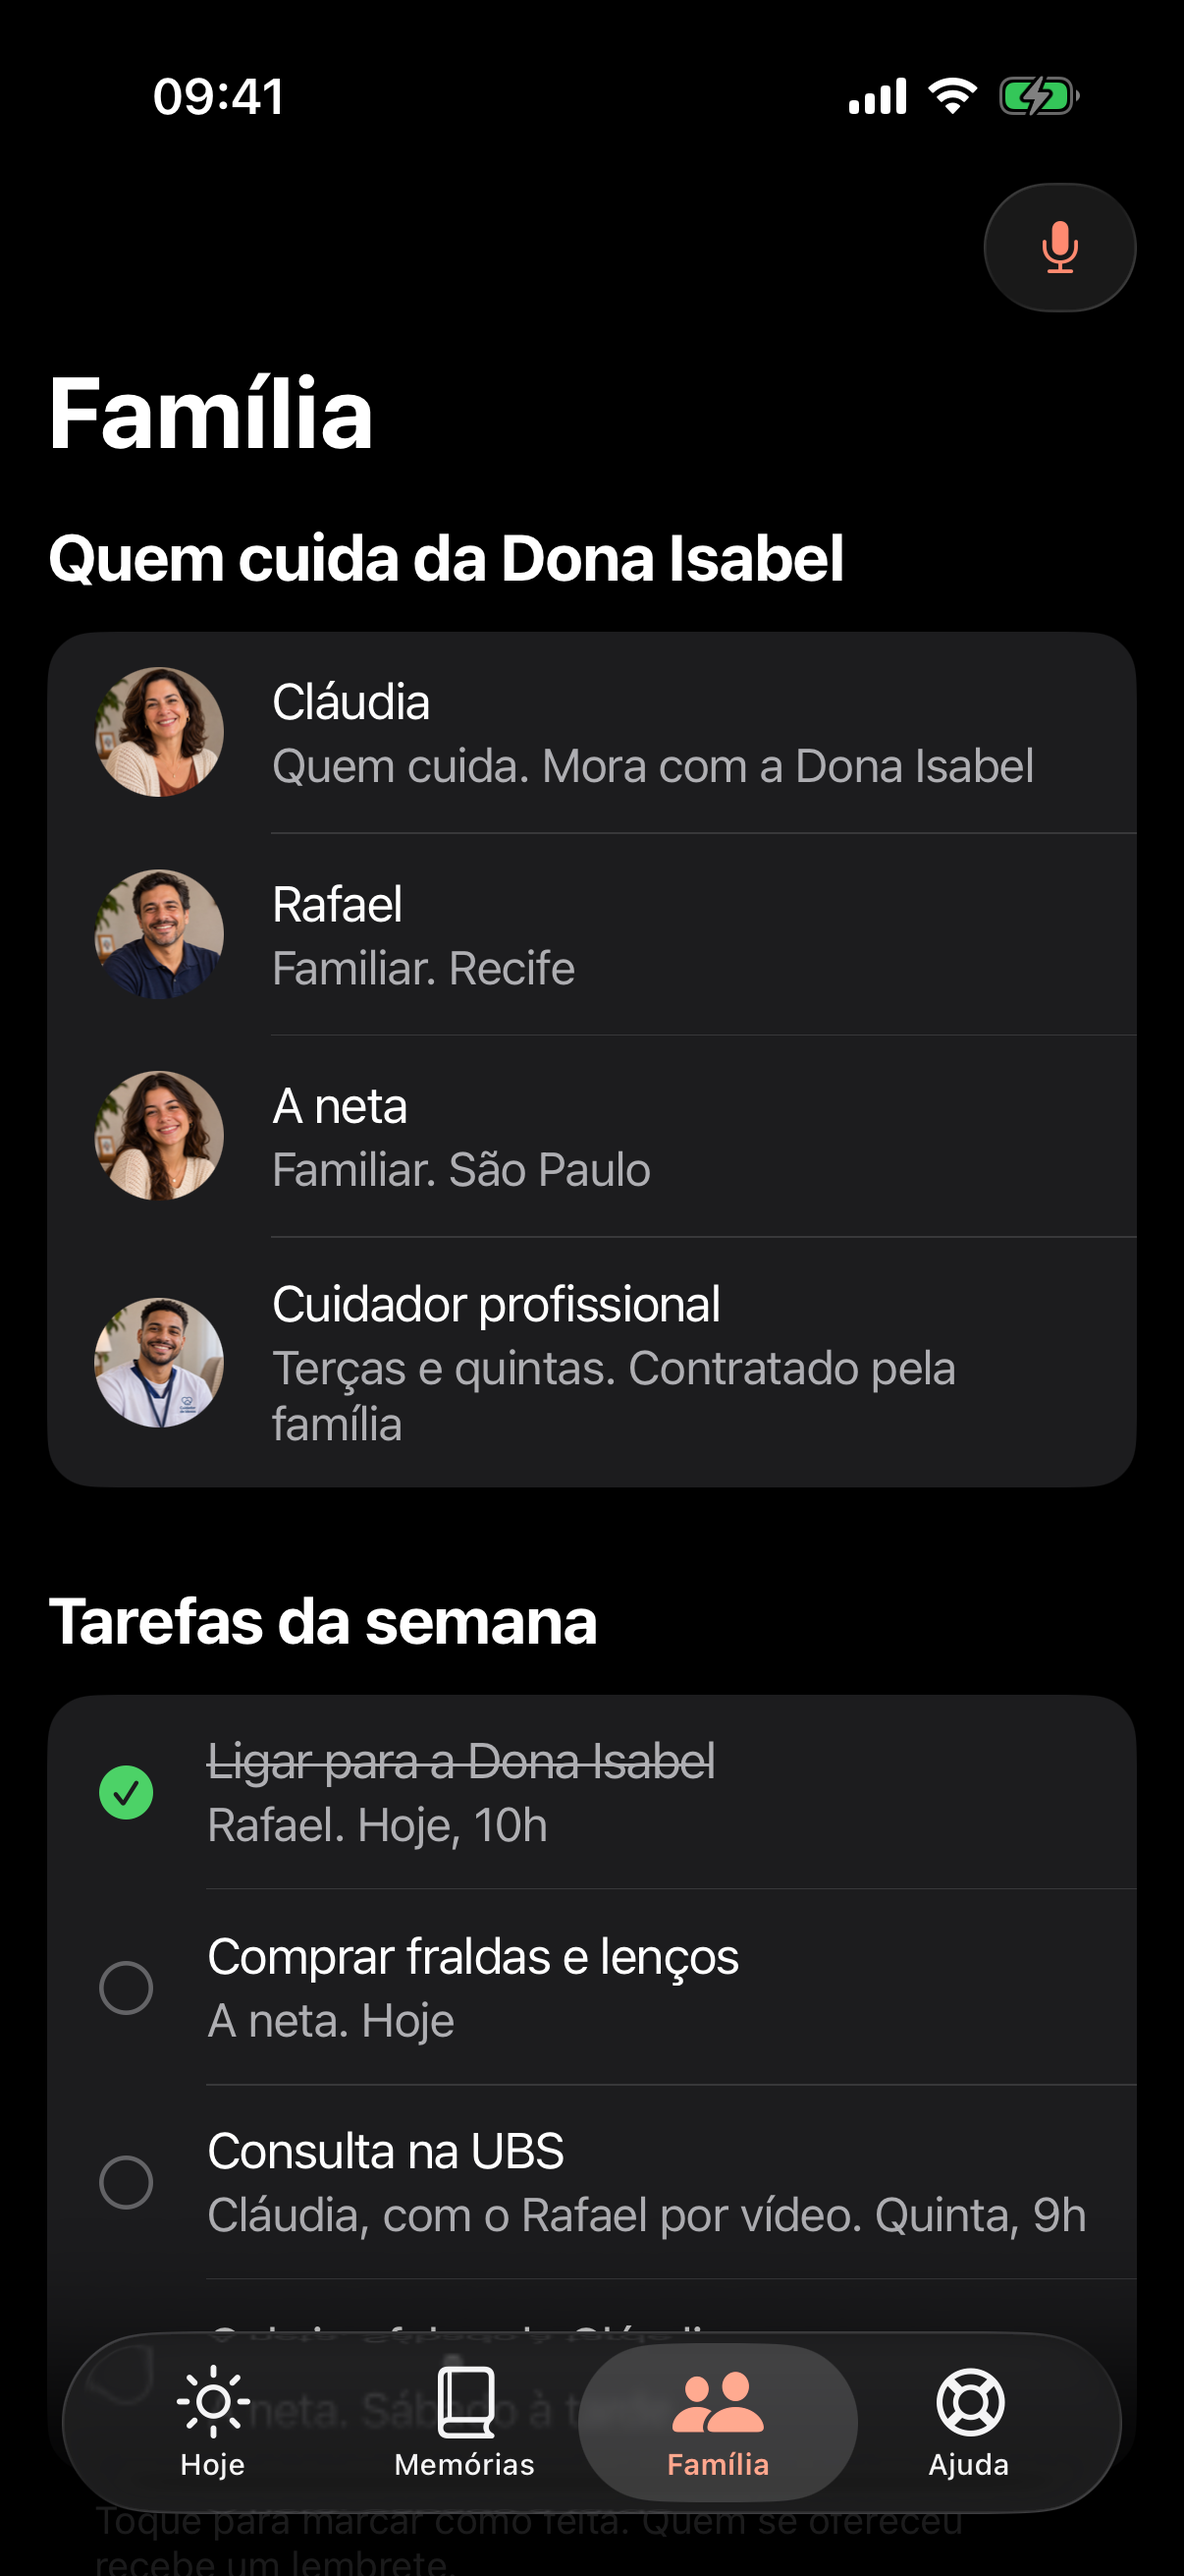
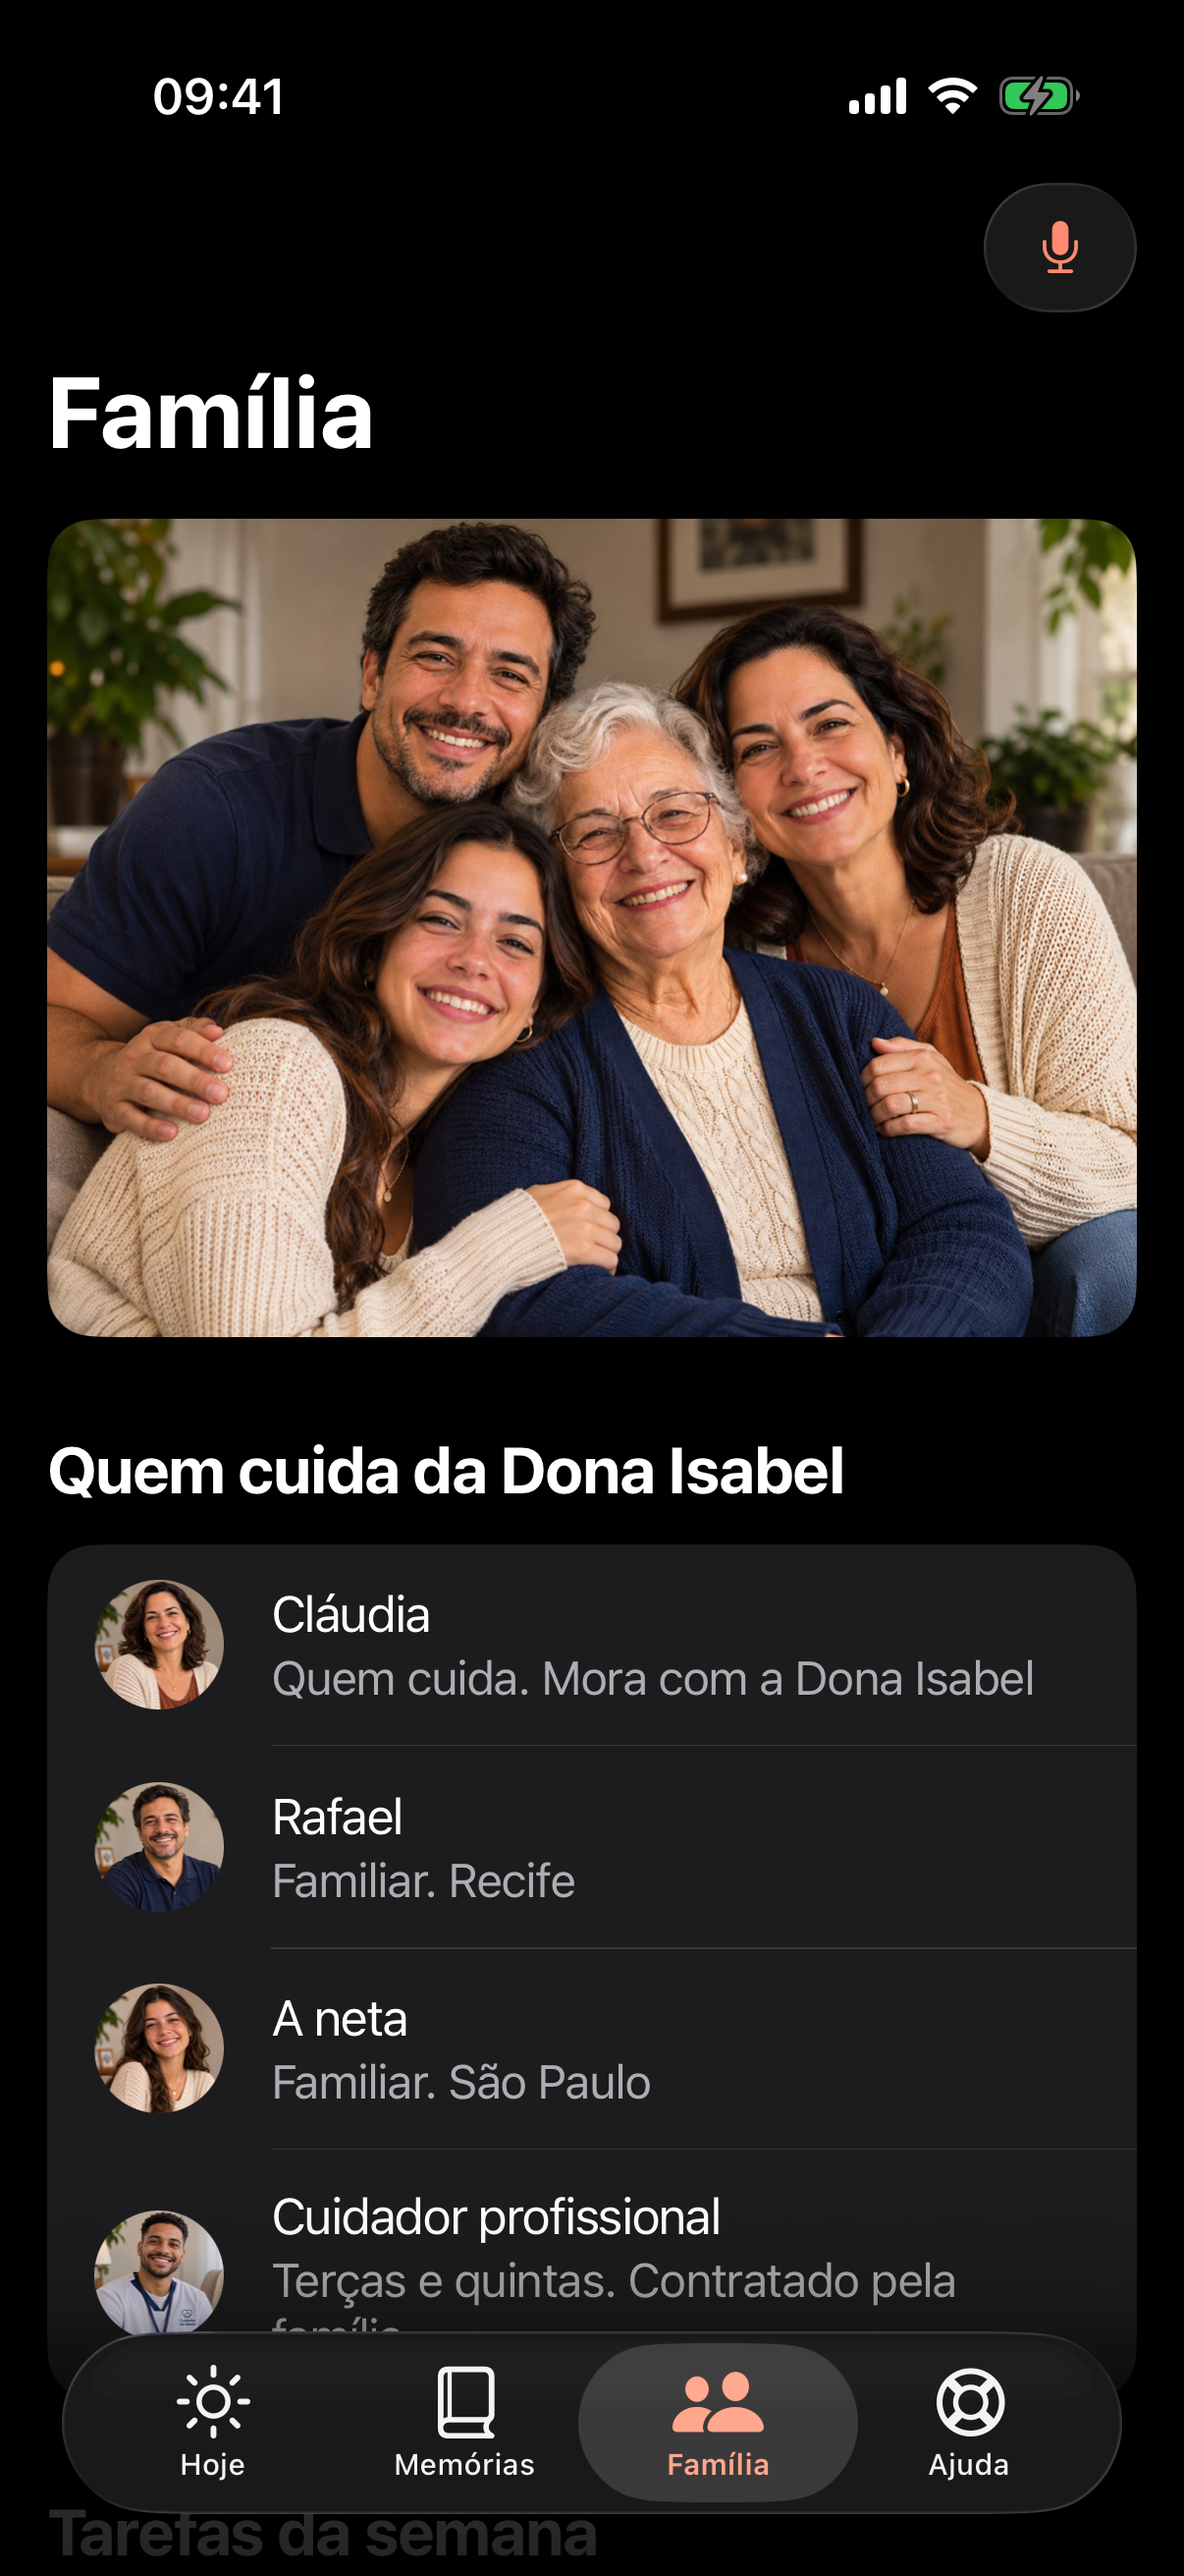
feat(app): fotos de memória da Dona Isabel e da família
- Grade do Passaporte com o ateliê (1978), São João (1965), a
  Cláudia pequena, a casa da Rua das Flores, os 81 anos com a neta e
  a família reunida
- Sessão de reminiscência e o cartão do Hoje com a foto do ateliê
- Foto do marido em Pessoas importantes
- Família reunida no topo da aba Família e na primeira tela do
  onboarding
- Corrigido: a troca de nomes tinha virado "São João" em
  "São Rafael"
- Todas as imagens são geradas por IA e fictícias (registrado no
  DESIGN.md)

diff --git a/app/src/data/familia.ts b/app/src/data/familia.ts
@@ -14,6 +14,13 @@ export const fotos: Record<string, ImageSource> = {
   rafael: require('../../assets/fotos/rafael.jpg'),
   neta: require('../../assets/fotos/neta.jpg'),
   cuidador: require('../../assets/fotos/cuidador.jpg'),
+  marido: require('../../assets/fotos/marido.jpg'),
+  familiaReunida: require('../../assets/fotos/familia-reunida.jpg'),
+  atelie: require('../../assets/fotos/atelie-1978.jpg'),
+  claudiaPequena: require('../../assets/fotos/claudia-pequena.jpg'),
+  saoJoao: require('../../assets/fotos/sao-joao.jpg'),
+  casa: require('../../assets/fotos/casa-rua-das-flores.jpg'),
+  aniversario: require('../../assets/fotos/aniversario-81.jpg'),
 };
 
 export const quemUsa = { nome: 'Cláudia', papel: 'Quem cuida' };
@@ -28,7 +35,7 @@ export const pessoa = {
   comoSeComunica:
     'Entende melhor frases curtas, uma coisa de cada vez. Quando aperta a mão da gente, quer companhia. Chama a Cláudia de "minha menina".',
   pessoasImportantes: [
-    { nome: 'O marido', relacao: 'Falecido em 2015. Se conheceram num baile de São Rafael', tom: 0, foto: undefined },
+    { nome: 'O marido', relacao: 'Falecido em 2015. Se conheceram num baile de São João', tom: 0, foto: fotos.marido },
     { nome: 'Cláudia', relacao: 'Filha, mora com ela', tom: 1, foto: fotos.claudia },
     { nome: 'Rafael', relacao: 'Filho, mora em Recife', tom: 2, foto: fotos.rafael },
     { nome: 'A neta', relacao: 'Filha da Cláudia, canta com ela aos domingos', tom: 3, foto: fotos.neta },
@@ -49,16 +56,16 @@ export const pessoa = {
     { titulo: 'Fim da tarde', detalhe: 'Às vezes pergunta pela casa da mãe dela' },
   ],
   musicasEComidas: [
-    { titulo: 'Músicas', detalhe: 'Roberto Carlos, forró de São Rafael, hinos da igreja', icone: 'musica' as NomeIcone },
+    { titulo: 'Músicas', detalhe: 'Roberto Carlos, forró de São João, hinos da igreja', icone: 'musica' as NomeIcone },
     { titulo: 'Comidas', detalhe: 'Sopa de legumes, pão de queijo, doce de abóbora', icone: 'comida' as NomeIcone },
   ],
   fotos: [
-    { legenda: 'O ateliê, 1978', tom: 0, icone: 'foto' as NomeIcone },
-    { legenda: 'O casamento, 1966', tom: 1, icone: 'coracao' as NomeIcone },
-    { legenda: 'Os filhos pequenos', tom: 2, icone: 'familia' as NomeIcone },
-    { legenda: 'São Rafael na praça', tom: 3, icone: 'musica' as NomeIcone },
-    { legenda: 'A casa da Rua das Flores', tom: 4, icone: 'casa' as NomeIcone },
-    { legenda: 'Com a neta no aniversário', tom: 0, icone: 'coracao' as NomeIcone },
+    { legenda: 'O ateliê, 1978', tom: 0, icone: 'foto' as NomeIcone, fonte: fotos.atelie },
+    { legenda: 'São João na praça, 1965', tom: 3, icone: 'musica' as NomeIcone, fonte: fotos.saoJoao },
+    { legenda: 'Com a Cláudia pequena, 1978', tom: 2, icone: 'familia' as NomeIcone, fonte: fotos.claudiaPequena },
+    { legenda: 'A casa da Rua das Flores', tom: 4, icone: 'casa' as NomeIcone, fonte: fotos.casa },
+    { legenda: '81 anos, com a neta', tom: 0, icone: 'coracao' as NomeIcone, fonte: fotos.aniversario },
+    { legenda: 'Todos juntos, 2026', tom: 1, icone: 'familia' as NomeIcone, fonte: fotos.familiaReunida },
   ],
   fontesDoPassaporte: '6 áudios, 12 fotos e 3 textos enviados pela família',
 };
@@ -144,7 +151,7 @@ export const sessao = {
   tema: 'Os vestidos de noiva',
   duracao: '5 a 10 minutos',
   musica: '"Detalhes", Roberto Carlos',
-  foto: { legenda: 'O ateliê de costura, 1978', tom: 0, icone: 'foto' as NomeIcone },
+  foto: { legenda: 'O ateliê de costura, 1978', tom: 0, icone: 'foto' as NomeIcone, fonte: fotos.atelie },
   passos: [
     'Olha que foto bonita. O que a senhora vê aqui?',
     'Me conta como era fazer um vestido de noiva. Qual parte a senhora mais gostava?',

diff --git a/app/src/app/onboarding.tsx b/app/src/app/onboarding.tsx
@@ -1,11 +1,11 @@
 import AsyncStorage from '@react-native-async-storage/async-storage';
-import { Image } from 'expo-image';
 import { router } from 'expo-router';
 import { useState } from 'react';
 import { Pressable, ScrollView, View } from 'react-native';
 import Animated, { FadeIn } from 'react-native-reanimated';
 
-import { Coluna, Icon, ListGroup, ListRow, PrimaryButton, SecondaryButton, Text } from '@/components';
+import { Coluna, Icon, ListGroup, ListRow, Logo, Photo, PrimaryButton, SecondaryButton, Text } from '@/components';
+import { fotos } from '@/data/familia';
 import { CHAVE_ONBOARDING } from '@/lib/chaves';
 import { haptic } from '@/lib/haptics';
 import { useMargensSeguras } from '@/lib/insets';
@@ -51,7 +51,8 @@ export default function Onboarding() {
         <Animated.View key={passo} entering={FadeIn.duration(280)} style={{ flex: 1, justifyContent: 'center', gap: espaco.s3 }}>
           {passo === 0 && (
             <Coluna gap="s2" centro>
-              <Image source={require('../../assets/icon.png')} style={{ width: 120, height: 120, borderRadius: 28 }} accessibilityLabel="Logo do SempreAqui" />
+              <Photo fonte={fotos.familiaReunida} rotulo="Uma família reunida em volta da avó" proporcao={4 / 3} />
+              <Logo tamanho={44} />
               <Text variante="largeTitle" centro accessibilityRole="header">
                 Ninguém cuida sozinho
               </Text>

diff --git a/app/src/app/(tabs)/familia/index.tsx b/app/src/app/(tabs)/familia/index.tsx
@@ -4,6 +4,7 @@ import { Share } from 'react-native';
 
 import {
   Avatar,
+  Photo,
   Icon,
   ListGroup,
   ListRow,
@@ -12,7 +13,7 @@ import {
   Section,
   SummaryCard,
 } from '@/components';
-import { familia, feed, pessoa, tarefas as tarefasIniciais } from '@/data/familia';
+import { familia, feed, fotos, pessoa, tarefas as tarefasIniciais } from '@/data/familia';
 import { haptic } from '@/lib/haptics';
 import { useTema } from '@/theme';
 
@@ -32,6 +33,8 @@ export default function Familia() {
 
   return (
     <Screen>
+      <Photo fonte={fotos.familiaReunida} rotulo="Dona Isabel com a Cláudia, o Rafael e a neta" proporcao={4 / 3} />
+
       <Section titulo={`Quem cuida da ${pessoa.comoGostaDeSerChamada}`}>
         <ListGroup comAvatar>
           {familia.map((m) => (

diff --git a/app/src/app/sessao.tsx b/app/src/app/sessao.tsx
@@ -44,7 +44,7 @@ export default function Sessao() {
         <ScrollView
           contentContainerStyle={{ flexGrow: 1, paddingHorizontal: margem, paddingBottom: espaco.s2, gap: espaco.s3 }}
         >
-          <Photo rotulo={sessao.foto.legenda} tom={sessao.foto.tom} icone={sessao.foto.icone} proporcao={1.1} />
+          <Photo rotulo={sessao.foto.legenda} fonte={sessao.foto.fonte} tom={sessao.foto.tom} icone={sessao.foto.icone} proporcao={4 / 3} />
           <Animated.View key={passo} entering={FadeIn.duration(300)} style={{ flexGrow: 1, gap: espaco.s2 }}>
             <Text variante="sessaoPergunta">{sessao.passos[passo]}</Text>
           </Animated.View>

diff --git a/app/src/app/(tabs)/memorias/index.tsx b/app/src/app/(tabs)/memorias/index.tsx
@@ -25,7 +25,7 @@ function GradeDeFotos() {
         <View key={i} style={{ flexDirection: 'row', gap: espaco.meio / 2 + 2 }}>
           {linha.map((f) => (
             <View key={f.legenda} style={{ flex: 1 }}>
-              <Photo rotulo={f.legenda} tom={f.tom} icone={f.icone} proporcao={1} style={{ borderRadius: 4 }} />
+              <Photo rotulo={f.legenda} fonte={f.fonte} tom={f.tom} icone={f.icone} proporcao={1} style={{ borderRadius: 4 }} />
             </View>
           ))}
         </View>

diff --git a/app/src/app/(tabs)/hoje/index.tsx b/app/src/app/(tabs)/hoje/index.tsx
@@ -132,6 +132,7 @@ export default function Hoje() {
           detalhe={`${sessao.duracao}, com foto e música`}
           tom={sessao.foto.tom}
           icone={sessao.foto.icone}
+          fonte={sessao.foto.fonte}
           proporcao={16 / 9}
           onPress={() => router.push('/sessao')}
         />

diff --git a/design/DESIGN.md b/design/DESIGN.md
@@ -59,4 +59,4 @@ node scripts/contraste.ts
 
 ## Fotos
 
-Os retratos da família (Dona Isabel, Cláudia, Rafael, a neta e o cuidador profissional) foram **gerados por IA**. São pessoas fictícias e não representam ninguém real. Nunca usamos fotos de pessoas reais em exemplos.
+Todas as fotos do app foram **geradas por IA**: os retratos da família (Dona Isabel, Cláudia, Rafael, a neta, o marido e o cuidador profissional) e as memórias do Passaporte (o ateliê em 1978, São João em 1965, a Cláudia pequena, a casa da Rua das Flores, o aniversário de 81 anos e a família reunida). São pessoas e lugares fictícios. Nunca usamos fotos de pessoas reais em exemplos.
